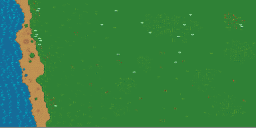
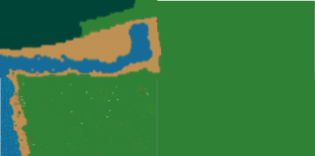
+add minimap

diff --git a/KingComeBack/Classes/GamePlayScene.cpp b/KingComeBack/Classes/GamePlayScene.cpp
@@ -37,7 +37,7 @@ bool GamePlayScene::init()
 
 
 
-	condinatorMiniMap = Vec2(screenSize.width * 1 / 20, screenSize.height * 8 / 10);
+	condinatorMiniMap = Vec2(screenSize.width * 1 / 20, screenSize.height * 7 / 10);
 
 
 	pause = DelayTime::create(20);
@@ -209,7 +209,8 @@ void GamePlayScene::AddMap()
 	_layer2D->addChild(map);
 
 	//get contensize big map
-	condinatorBigMap = Vec2(map->getContentSize().height, map->getContentSize().width);
+	condinatorBigMap = Vec2(2*map->getContentSize().height, 2*map->getContentSize().width);
+	log("condinatorBigMap %f %f", map->getContentSize().height, map->getContentSize().width);
 	
 	// Map top
 	mapTop = TMXTiledMap::create("mapTop.tmx");
@@ -1014,7 +1015,7 @@ void GamePlayScene::miniMap()
 
 	m_miniMap = Sprite::create("miniMap.png");
 	//Sprite*  minimapSprite = Sprite::create("minimap.png");
-	m_miniMap->setScale(0.7);
+	//m_miniMap->setScale(0.7);
 	//minimapSprite->setScale(0.3);
 	//minimapSprite->setPosition(50*screenSize.width / (2 * 256), 820*screenSize.height  / (2*512));
 	m_miniMap->setAnchorPoint(Vec2(0, 0));
@@ -1024,11 +1025,12 @@ void GamePlayScene::miniMap()
 
 	map_1 = Sprite::create("map1.png");
 	//Sprite*  minimapSprite = Sprite::create("minimap.png");
-	map_1->setScale(0.7);
+	//map_1->setScaleX(0.66);
+	//map_1->setScaleY(0.65);
 	map_1->setAnchorPoint(Vec2(0, 0));
 	//minimapSprite->setScale(0.3);
 	//minimapSprite->setPosition(50*screenSize.width / (2 * 256), 820*screenSize.height  / (2*512));
-	map_1->setPosition(m_miniMap->getPosition());
+	map_1->setPosition(m_miniMap->getPositionX()+10, m_miniMap->getPositionY() + 10);
 
 
 	//_layerUI->addChild(minimapSprite,11);

diff --git a/KingComeBack/Classes/dotMiniMap.cpp b/KingComeBack/Classes/dotMiniMap.cpp
@@ -8,7 +8,7 @@ dotMiniMap::dotMiniMap(Layer * layerUI, int type)
 	{
 	case Hero:
 		m_sprite = Sprite::create("dotHero.png");
-		m_sprite->setScale(0.01);
+		m_sprite->setScale(0.04);
 		break;
 		
 	case House:

diff --git a/KingComeBack/Classes/GamePlayScene.h b/KingComeBack/Classes/GamePlayScene.h
@@ -29,7 +29,7 @@ const int BITMASK_MAP = 100;
 const int BITMASK_LAYER_UI = 101;
 
 
-#define SPEED 65
+#define SPEED 100
 
 
 
